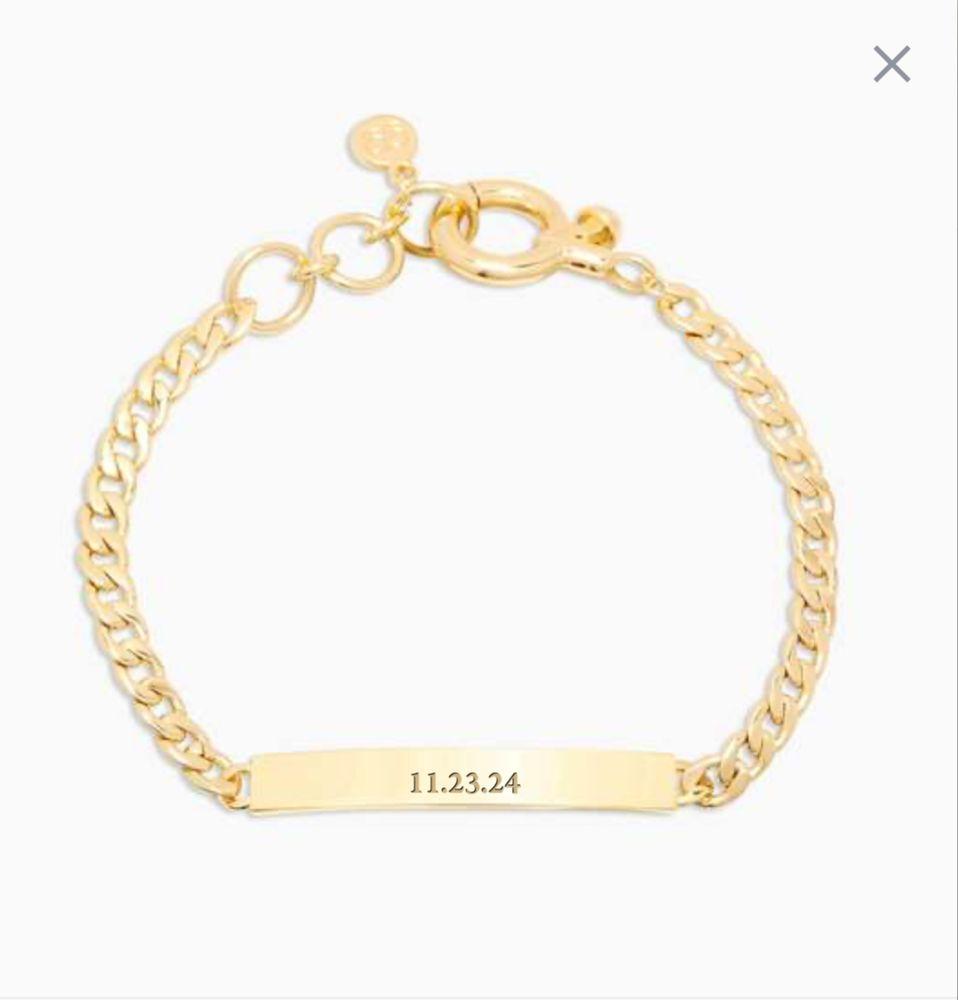
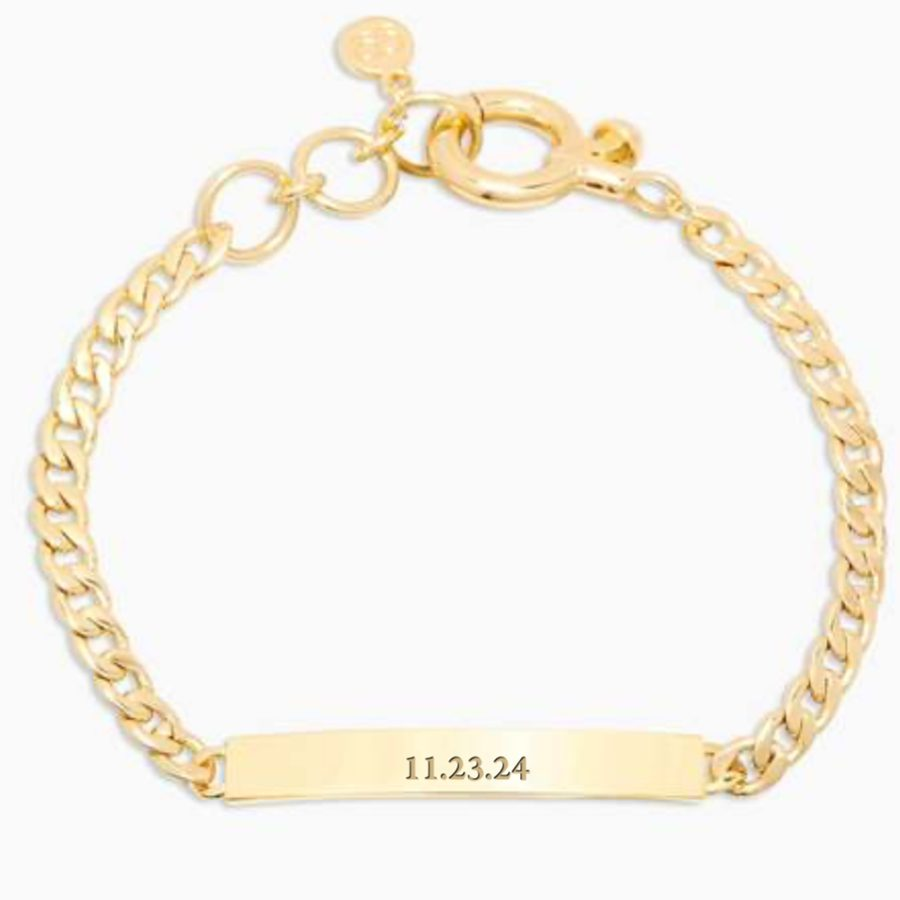
Polish: tighter gallery, cleaner bracelet photo, room under the finale
Claude-Session: https://claude.ai/code/session_01U6ucGHmhaKMB2DLhw2SPBU

Changed region(s): [[0.0311, 0.0, 1.0, 1.0], [0.9022, 0.0311, 0.9644, 0.0933]]

diff --git a/index.html b/index.html
@@ -364,6 +364,10 @@ h2{font:400 clamp(52px,14vw,76px)/1 Allura,cursive;color:var(--wine);text-align:
 .lgrid .pol:nth-child(odd){transform:rotate(-2deg)}.lgrid .pol:nth-child(even){transform:rotate(2deg)}
 .lgrid .wide{grid-column:1/-1;max-width:300px;margin:0 auto}
 .lgrid figcaption{font-size:17px}
+.hang .pol img{max-height:330px;object-fit:contain;background:#fff}
+.strip{align-items:center}
+.fin{padding-bottom:130px}
+.lgrid .wide img{border-radius:2px}
 /* POLISH PASS */
 #prog{position:fixed;left:0;top:0;height:4px;width:0;z-index:75;background:linear-gradient(90deg,var(--wine2),var(--gold));border-radius:0 4px 4px 0;box-shadow:0 0 10px rgba(201,154,82,.7)}
 #prog::after{content:"♥";position:absolute;right:-7px;top:-8px;font-size:15px;color:var(--wine2);animation:hb 1.2s infinite}
